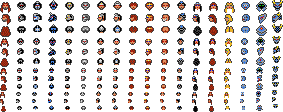
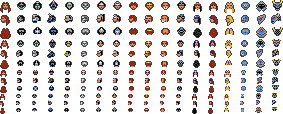
Fixed heads, distances

diff --git a/graphicsCharacters.js b/graphicsCharacters.js
@@ -41,14 +41,14 @@ function getCharacterSprite(length, graphicsFolder, graphic, spritWidth, spriteH
 		} else {
 			switch (graphic) {
 				case 'heads':
-                                        
-                                        var largeHeads = 1;
-                                        
-                                        if (x === 3 || x === 17){
-                                            largeHeads = 0;
-                                        }
-                                        
-					CLOSE.push(grabImageAt(gfx[graphicsFolder][graphic], x * colSize, POSITION + largeHeads, spritWidth, spriteHeight, false));
+
+					var largeHeads = 0;
+
+					if (x === 3 || x === 17) {
+						largeHeads = 0;
+					}
+
+					CLOSE.push(grabImageAt(gfx[graphicsFolder][graphic], x * colSize, POSITION + largeHeads, spritWidth, spriteHeight, false)); //11, 13
 					POSITION = POSITION + spriteHeight;
 
 					CLOSE.push(grabImageAt(gfx[graphicsFolder][graphic], x * colSize, POSITION + largeHeads, spritWidth, spriteHeight, false));
@@ -56,163 +56,169 @@ function getCharacterSprite(length, graphicsFolder, graphic, spritWidth, spriteH
 					POSITION = POSITION + spriteHeight;
 
 					CLOSE.push(grabImageAt(gfx[graphicsFolder][graphic], x * colSize, POSITION + largeHeads, spritWidth, spriteHeight, false));
-					POSITION = POSITION + spriteHeight + 2;
+					POSITION = POSITION + spriteHeight;
 
-					MID.push(grabImageAt(gfx[graphicsFolder][graphic], x * colSize, POSITION + largeHeads, spritWidth - 3, spriteHeight - 3, false));
-					POSITION = POSITION + spriteHeight - 2;
 
-					MID.push(grabImageAt(gfx[graphicsFolder][graphic], x * colSize, POSITION + largeHeads, spritWidth - 3, spriteHeight - 3, false));
-					MID.push(grabImageAt(gfx[graphicsFolder][graphic], x * colSize, POSITION + largeHeads, spritWidth - 3, spriteHeight - 3, true));
-					POSITION = POSITION + spriteHeight - 2;
 
-					MID.push(grabImageAt(gfx[graphicsFolder][graphic], x * colSize, POSITION + largeHeads, spritWidth - 3, spriteHeight - 3, false));
-					POSITION = POSITION + spriteHeight - 2;
+					MID.push(grabImageAt(gfx[graphicsFolder][graphic], x * colSize, POSITION + largeHeads, spritWidth - 2, spriteHeight - 3, false)); //9, 10
+					POSITION = POSITION + spriteHeight - 3;
 
-					FAR.push(grabImageAt(gfx[graphicsFolder][graphic], x * colSize, POSITION + largeHeads, spritWidth - 5, spriteHeight - 4, false));
-					POSITION = POSITION + spriteHeight - 4;
+					MID.push(grabImageAt(gfx[graphicsFolder][graphic], x * colSize, POSITION + largeHeads, spritWidth - 2, spriteHeight - 3, false));
+					MID.push(grabImageAt(gfx[graphicsFolder][graphic], x * colSize, POSITION + largeHeads, spritWidth - 2, spriteHeight - 3, true));
+					POSITION = POSITION + spriteHeight - 3;
 
-					FAR.push(grabImageAt(gfx[graphicsFolder][graphic], x * colSize, POSITION + largeHeads, spritWidth - 5, spriteHeight - 4, false));
-					FAR.push(grabImageAt(gfx[graphicsFolder][graphic], x * colSize, POSITION + largeHeads, spritWidth - 5, spriteHeight - 4, true));
-					POSITION = POSITION + spriteHeight - 4;
+					MID.push(grabImageAt(gfx[graphicsFolder][graphic], x * colSize, POSITION + largeHeads, spritWidth - 2, spriteHeight - 3, false));
+					POSITION = POSITION + spriteHeight - 3;
 
-					FAR.push(grabImageAt(gfx[graphicsFolder][graphic], x * colSize, POSITION + largeHeads, spritWidth - 5, spriteHeight - 4, false));
-					POSITION = POSITION + spriteHeight - 4;
 
-					DISTANT.push(grabImageAt(gfx[graphicsFolder][graphic], x * colSize, POSITION + largeHeads, spritWidth - 7, spriteHeight - 6, false));
+
+					FAR.push(grabImageAt(gfx[graphicsFolder][graphic], x * colSize, POSITION + largeHeads, spritWidth - 4, spriteHeight - 5, false)); //7, 8
 					POSITION = POSITION + spriteHeight - 5;
 
-					DISTANT.push(grabImageAt(gfx[graphicsFolder][graphic], x * colSize, POSITION + largeHeads, spritWidth - 8, spriteHeight - 6, false));
-					DISTANT.push(grabImageAt(gfx[graphicsFolder][graphic], x * colSize, POSITION + largeHeads, spritWidth - 8, spriteHeight - 6, true));
+					FAR.push(grabImageAt(gfx[graphicsFolder][graphic], x * colSize, POSITION + largeHeads, spritWidth - 4, spriteHeight - 5, false));
+					FAR.push(grabImageAt(gfx[graphicsFolder][graphic], x * colSize, POSITION + largeHeads, spritWidth - 4, spriteHeight - 5, true));
 					POSITION = POSITION + spriteHeight - 5;
 
-					DISTANT.push(grabImageAt(gfx[graphicsFolder][graphic], (x * colSize), POSITION + largeHeads, spritWidth - 5, spriteHeight - 6, false));
+					FAR.push(grabImageAt(gfx[graphicsFolder][graphic], x * colSize, POSITION + largeHeads, spritWidth - 4, spriteHeight - 5, false));
+					POSITION = POSITION + spriteHeight - 5;
+
+
+
+					DISTANT.push(grabImageAt(gfx[graphicsFolder][graphic], x * colSize, POSITION + largeHeads, spritWidth - 6, spriteHeight - 6, false)); //5, 7
+					POSITION = POSITION + spriteHeight - 6;
+
+					DISTANT.push(grabImageAt(gfx[graphicsFolder][graphic], x * colSize, POSITION + largeHeads, spritWidth - 6, spriteHeight - 6, false));
+					DISTANT.push(grabImageAt(gfx[graphicsFolder][graphic], x * colSize, POSITION + largeHeads, spritWidth - 6, spriteHeight - 6, true));
+					POSITION = POSITION + spriteHeight - 6;
+
+					DISTANT.push(grabImageAt(gfx[graphicsFolder][graphic], (x * colSize), POSITION + largeHeads, spritWidth - 6, spriteHeight - 6, false));
 
 					break;
 				case 'torsos':
-                                    
-                                        if (x === 5){                                           
-                                    
-                                            CLOSE.push(grabImageAt(gfx[graphicsFolder][graphic], x * colSize+2, POSITION+2, spritWidth-4, spriteHeight-2, false));
-                                            POSITION = POSITION + spriteHeight +2;
 
-                                            CLOSE.push(grabImageAt(gfx[graphicsFolder][graphic], x * colSize+2, POSITION, spritWidth - 7, spriteHeight -1 , false));
-                                            CLOSE.push(grabImageAt(gfx[graphicsFolder][graphic], x * colSize+2, POSITION, spritWidth - 7, spriteHeight -1 , true));
-                                            POSITION = POSITION + spriteHeight -1;
+					if (x === 5) {
 
-                                            CLOSE.push(grabImageAt(gfx[graphicsFolder][graphic], x * colSize+2, POSITION+1, spritWidth-4, spriteHeight-2, false));
-                                            POSITION = POSITION + spriteHeight+1;
+						CLOSE.push(grabImageAt(gfx[graphicsFolder][graphic], x * colSize + 2, POSITION + 2, spritWidth - 4, spriteHeight - 2, false));
+						POSITION = POSITION + spriteHeight + 2;
 
-                                            MID.push(grabImageAt(gfx[graphicsFolder][graphic], x * colSize+2, POSITION, spritWidth - 6, spriteHeight - 5, false));
-                                            POSITION = POSITION + spriteHeight - 2;
+						CLOSE.push(grabImageAt(gfx[graphicsFolder][graphic], x * colSize + 2, POSITION, spritWidth - 7, spriteHeight - 1, false));
+						CLOSE.push(grabImageAt(gfx[graphicsFolder][graphic], x * colSize + 2, POSITION, spritWidth - 7, spriteHeight - 1, true));
+						POSITION = POSITION + spriteHeight - 1;
 
-                                            MID.push(grabImageAt(gfx[graphicsFolder][graphic], x * colSize + 2, POSITION, spritWidth - 8, spriteHeight - 6, false));
-                                            MID.push(grabImageAt(gfx[graphicsFolder][graphic], x * colSize + 2, POSITION, spritWidth - 8, spriteHeight - 6, true));
-                                            POSITION = POSITION + spriteHeight - 2;
+						CLOSE.push(grabImageAt(gfx[graphicsFolder][graphic], x * colSize + 2, POSITION + 1, spritWidth - 4, spriteHeight - 2, false));
+						POSITION = POSITION + spriteHeight + 1;
 
-                                            MID.push(grabImageAt(gfx[graphicsFolder][graphic], x * colSize+2, POSITION, spritWidth - 6, spriteHeight - 5, false));
-                                            POSITION = POSITION + spriteHeight -3;
+						MID.push(grabImageAt(gfx[graphicsFolder][graphic], x * colSize + 2, POSITION, spritWidth - 6, spriteHeight - 5, false));
+						POSITION = POSITION + spriteHeight - 2;
 
-                                            FAR.push(grabImageAt(gfx[graphicsFolder][graphic], x * colSize+2, POSITION, spritWidth - 8, spriteHeight - 8, false));
-                                            POSITION = POSITION + spriteHeight - 4;
+						MID.push(grabImageAt(gfx[graphicsFolder][graphic], x * colSize + 2, POSITION, spritWidth - 8, spriteHeight - 6, false));
+						MID.push(grabImageAt(gfx[graphicsFolder][graphic], x * colSize + 2, POSITION, spritWidth - 8, spriteHeight - 6, true));
+						POSITION = POSITION + spriteHeight - 2;
 
-                                            FAR.push(grabImageAt(gfx[graphicsFolder][graphic], x * colSize + 2, POSITION, spritWidth - 9, spriteHeight - 6, false));
-                                            FAR.push(grabImageAt(gfx[graphicsFolder][graphic], x * colSize + 2, POSITION, spritWidth - 9, spriteHeight - 6, true));
-                                            POSITION = POSITION + spriteHeight - 2;
+						MID.push(grabImageAt(gfx[graphicsFolder][graphic], x * colSize + 2, POSITION, spritWidth - 6, spriteHeight - 5, false));
+						POSITION = POSITION + spriteHeight - 3;
 
-                                            FAR.push(grabImageAt(gfx[graphicsFolder][graphic], x * colSize+1, POSITION, spritWidth - 8, spriteHeight - 8, false));
-                                            POSITION = POSITION + spriteHeight - 4;
+						FAR.push(grabImageAt(gfx[graphicsFolder][graphic], x * colSize + 2, POSITION, spritWidth - 8, spriteHeight - 8, false));
+						POSITION = POSITION + spriteHeight - 4;
 
-                                            DISTANT.push(grabImageAt(gfx[graphicsFolder][graphic], x * colSize + 1, POSITION, spritWidth - 8, spriteHeight - 5, false));
-                                            POSITION = POSITION + spriteHeight - 5;
+						FAR.push(grabImageAt(gfx[graphicsFolder][graphic], x * colSize + 2, POSITION, spritWidth - 9, spriteHeight - 6, false));
+						FAR.push(grabImageAt(gfx[graphicsFolder][graphic], x * colSize + 2, POSITION, spritWidth - 9, spriteHeight - 6, true));
+						POSITION = POSITION + spriteHeight - 2;
 
-                                            DISTANT.push(grabImageAt(gfx[graphicsFolder][graphic], x * colSize, POSITION, spritWidth - 9, spriteHeight - 5, false));
-                                            DISTANT.push(grabImageAt(gfx[graphicsFolder][graphic], x * colSize, POSITION, spritWidth - 9, spriteHeight - 5, true));
-                                            POSITION = POSITION + spriteHeight - 5;
+						FAR.push(grabImageAt(gfx[graphicsFolder][graphic], x * colSize + 1, POSITION, spritWidth - 8, spriteHeight - 8, false));
+						POSITION = POSITION + spriteHeight - 4;
 
-                                            DISTANT.push(grabImageAt(gfx[graphicsFolder][graphic], x * colSize + 1, POSITION, spritWidth - 8, spriteHeight - 5, false));
-                                            
-                                        }else{                                            
-                                    
-                                            CLOSE.push(grabImageAt(gfx[graphicsFolder][graphic], x * colSize, POSITION, spritWidth, spriteHeight, false));
-                                            POSITION = POSITION + spriteHeight;
+						DISTANT.push(grabImageAt(gfx[graphicsFolder][graphic], x * colSize + 1, POSITION, spritWidth - 8, spriteHeight - 5, false));
+						POSITION = POSITION + spriteHeight - 5;
 
-                                            CLOSE.push(grabImageAt(gfx[graphicsFolder][graphic], x * colSize, POSITION, spritWidth - 3, spriteHeight, false));
-                                            CLOSE.push(grabImageAt(gfx[graphicsFolder][graphic], x * colSize, POSITION, spritWidth - 3, spriteHeight, true));
-                                            POSITION = POSITION + spriteHeight;
+						DISTANT.push(grabImageAt(gfx[graphicsFolder][graphic], x * colSize, POSITION, spritWidth - 9, spriteHeight - 5, false));
+						DISTANT.push(grabImageAt(gfx[graphicsFolder][graphic], x * colSize, POSITION, spritWidth - 9, spriteHeight - 5, true));
+						POSITION = POSITION + spriteHeight - 5;
 
-                                            CLOSE.push(grabImageAt(gfx[graphicsFolder][graphic], x * colSize, POSITION, spritWidth, spriteHeight, false));
-                                            POSITION = POSITION + spriteHeight;
+						DISTANT.push(grabImageAt(gfx[graphicsFolder][graphic], x * colSize + 1, POSITION, spritWidth - 8, spriteHeight - 5, false));
 
-                                            MID.push(grabImageAt(gfx[graphicsFolder][graphic], x * colSize, POSITION, spritWidth - 2, spriteHeight - 2, false));
-                                            POSITION = POSITION + spriteHeight - 2;
+					} else {
 
-                                            MID.push(grabImageAt(gfx[graphicsFolder][graphic], x * colSize + 1, POSITION, spritWidth - 7, spriteHeight - 2, false));
-                                            MID.push(grabImageAt(gfx[graphicsFolder][graphic], x * colSize + 1, POSITION, spritWidth - 7, spriteHeight - 2, true));
-                                            POSITION = POSITION + spriteHeight - 2;
+						CLOSE.push(grabImageAt(gfx[graphicsFolder][graphic], x * colSize, POSITION, spritWidth, spriteHeight, false));
+						POSITION = POSITION + spriteHeight;
 
-                                            MID.push(grabImageAt(gfx[graphicsFolder][graphic], x * colSize, POSITION, spritWidth - 2, spriteHeight - 2, false));
-                                            POSITION = POSITION + spriteHeight - 2;
+						CLOSE.push(grabImageAt(gfx[graphicsFolder][graphic], x * colSize, POSITION, spritWidth - 3, spriteHeight, false));
+						CLOSE.push(grabImageAt(gfx[graphicsFolder][graphic], x * colSize, POSITION, spritWidth - 3, spriteHeight, true));
+						POSITION = POSITION + spriteHeight;
 
-                                            FAR.push(grabImageAt(gfx[graphicsFolder][graphic], x * colSize, POSITION, spritWidth - 6, spriteHeight - 4, false));
-                                            POSITION = POSITION + spriteHeight - 4;
+						CLOSE.push(grabImageAt(gfx[graphicsFolder][graphic], x * colSize, POSITION, spritWidth, spriteHeight, false));
+						POSITION = POSITION + spriteHeight;
 
-                                            FAR.push(grabImageAt(gfx[graphicsFolder][graphic], x * colSize + 1, POSITION, spritWidth - 8, spriteHeight - 4, false));
-                                            FAR.push(grabImageAt(gfx[graphicsFolder][graphic], x * colSize + 1, POSITION, spritWidth - 8, spriteHeight - 4, true));
-                                            POSITION = POSITION + spriteHeight - 4;
+						MID.push(grabImageAt(gfx[graphicsFolder][graphic], x * colSize, POSITION, spritWidth - 2, spriteHeight - 2, false));
+						POSITION = POSITION + spriteHeight - 2;
 
-                                            FAR.push(grabImageAt(gfx[graphicsFolder][graphic], x * colSize, POSITION, spritWidth - 6, spriteHeight - 4, false));
-                                            POSITION = POSITION + spriteHeight - 4;
+						MID.push(grabImageAt(gfx[graphicsFolder][graphic], x * colSize + 1, POSITION, spritWidth - 7, spriteHeight - 2, false));
+						MID.push(grabImageAt(gfx[graphicsFolder][graphic], x * colSize + 1, POSITION, spritWidth - 7, spriteHeight - 2, true));
+						POSITION = POSITION + spriteHeight - 2;
 
-                                            DISTANT.push(grabImageAt(gfx[graphicsFolder][graphic], x * colSize + 1, POSITION, spritWidth - 8, spriteHeight - 5, false));
-                                            POSITION = POSITION + spriteHeight - 5;
+						MID.push(grabImageAt(gfx[graphicsFolder][graphic], x * colSize, POSITION, spritWidth - 2, spriteHeight - 2, false));
+						POSITION = POSITION + spriteHeight - 2;
 
-                                            DISTANT.push(grabImageAt(gfx[graphicsFolder][graphic], x * colSize, POSITION, spritWidth - 9, spriteHeight - 5, false));
-                                            DISTANT.push(grabImageAt(gfx[graphicsFolder][graphic], x * colSize, POSITION, spritWidth - 9, spriteHeight - 5, true));
-                                            POSITION = POSITION + spriteHeight - 5;
+						FAR.push(grabImageAt(gfx[graphicsFolder][graphic], x * colSize, POSITION, spritWidth - 6, spriteHeight - 4, false));
+						POSITION = POSITION + spriteHeight - 4;
 
-                                            DISTANT.push(grabImageAt(gfx[graphicsFolder][graphic], x * colSize + 1, POSITION, spritWidth - 8, spriteHeight - 5, false));
+						FAR.push(grabImageAt(gfx[graphicsFolder][graphic], x * colSize + 1, POSITION, spritWidth - 8, spriteHeight - 4, false));
+						FAR.push(grabImageAt(gfx[graphicsFolder][graphic], x * colSize + 1, POSITION, spritWidth - 8, spriteHeight - 4, true));
+						POSITION = POSITION + spriteHeight - 4;
 
-                                        }
+						FAR.push(grabImageAt(gfx[graphicsFolder][graphic], x * colSize, POSITION, spritWidth - 6, spriteHeight - 4, false));
+						POSITION = POSITION + spriteHeight - 4;
+
+						DISTANT.push(grabImageAt(gfx[graphicsFolder][graphic], x * colSize + 1, POSITION, spritWidth - 8, spriteHeight - 5, false));
+						POSITION = POSITION + spriteHeight - 5;
+
+						DISTANT.push(grabImageAt(gfx[graphicsFolder][graphic], x * colSize, POSITION, spritWidth - 9, spriteHeight - 5, false));
+						DISTANT.push(grabImageAt(gfx[graphicsFolder][graphic], x * colSize, POSITION, spritWidth - 9, spriteHeight - 5, true));
+						POSITION = POSITION + spriteHeight - 5;
+
+						DISTANT.push(grabImageAt(gfx[graphicsFolder][graphic], x * colSize + 1, POSITION, spritWidth - 8, spriteHeight - 5, false));
+
+					}
 					break;
 				case 'arms':
-					CLOSE.push(grabImageAt(gfx[graphicsFolder][graphic], x * colSize, POSITION, spritWidth -4, spriteHeight, false));
+					CLOSE.push(grabImageAt(gfx[graphicsFolder][graphic], x * colSize, POSITION, spritWidth - 4, spriteHeight, false));
 					POSITION = POSITION + spriteHeight;
 
-					CLOSE.push(grabImageAt(gfx[graphicsFolder][graphic], x * colSize , POSITION, spritWidth-1, spriteHeight, false));
-					CLOSE.push(grabImageAt(gfx[graphicsFolder][graphic], x * colSize , POSITION, spritWidth-1, spriteHeight, true));
+					CLOSE.push(grabImageAt(gfx[graphicsFolder][graphic], x * colSize, POSITION, spritWidth - 1, spriteHeight, false));
+					CLOSE.push(grabImageAt(gfx[graphicsFolder][graphic], x * colSize, POSITION, spritWidth - 1, spriteHeight, true));
 					POSITION = POSITION + spriteHeight;
 
-					CLOSE.push(grabImageAt(gfx[graphicsFolder][graphic], x * colSize+1, POSITION, spritWidth-1, spriteHeight - 4, false));
+					CLOSE.push(grabImageAt(gfx[graphicsFolder][graphic], x * colSize + 1, POSITION, spritWidth - 1, spriteHeight - 4, false));
 					POSITION = POSITION + spriteHeight + 2;
 
-					MID.push(grabImageAt(gfx[graphicsFolder][graphic], x * colSize, POSITION - 1, spritWidth -5, spriteHeight - 4, false));
+					MID.push(grabImageAt(gfx[graphicsFolder][graphic], x * colSize, POSITION - 1, spritWidth - 5, spriteHeight - 4, false));
 					POSITION = POSITION + spriteHeight - 1;
 
-					MID.push(grabImageAt(gfx[graphicsFolder][graphic], x * colSize, POSITION - 1, spritWidth -2, spriteHeight -3, false));
-					MID.push(grabImageAt(gfx[graphicsFolder][graphic], x * colSize, POSITION - 1, spritWidth -2, spriteHeight -3, true));
-					POSITION = POSITION + spriteHeight ;
+					MID.push(grabImageAt(gfx[graphicsFolder][graphic], x * colSize, POSITION - 1, spritWidth - 2, spriteHeight - 3, false));
+					MID.push(grabImageAt(gfx[graphicsFolder][graphic], x * colSize, POSITION - 1, spritWidth - 2, spriteHeight - 3, true));
+					POSITION = POSITION + spriteHeight;
 
-					MID.push(grabImageAt(gfx[graphicsFolder][graphic], x * colSize, POSITION - 1, spritWidth -2, spriteHeight - 6, false));
+					MID.push(grabImageAt(gfx[graphicsFolder][graphic], x * colSize, POSITION - 1, spritWidth - 2, spriteHeight - 6, false));
 					POSITION = POSITION + spriteHeight - 7;
 
-					FAR.push(grabImageAt(gfx[graphicsFolder][graphic], x * colSize, POSITION, spritWidth -5 , spriteHeight - 6, false));
+					FAR.push(grabImageAt(gfx[graphicsFolder][graphic], x * colSize, POSITION, spritWidth - 5, spriteHeight - 6, false));
 					POSITION = POSITION + spriteHeight - 4;
 
-					FAR.push(grabImageAt(gfx[graphicsFolder][graphic], x * colSize , POSITION, spritWidth-3 , spriteHeight - 6, false));
-					FAR.push(grabImageAt(gfx[graphicsFolder][graphic], x * colSize , POSITION, spritWidth-3 , spriteHeight - 6, true));
+					FAR.push(grabImageAt(gfx[graphicsFolder][graphic], x * colSize, POSITION, spritWidth - 3, spriteHeight - 6, false));
+					FAR.push(grabImageAt(gfx[graphicsFolder][graphic], x * colSize, POSITION, spritWidth - 3, spriteHeight - 6, true));
 					POSITION = POSITION + spriteHeight - 4;
 
-					FAR.push(grabImageAt(gfx[graphicsFolder][graphic], x * colSize, POSITION, spritWidth-3 , spriteHeight - 9, false));
+					FAR.push(grabImageAt(gfx[graphicsFolder][graphic], x * colSize, POSITION, spritWidth - 3, spriteHeight - 9, false));
 					POSITION = POSITION + spriteHeight + 1;
 
-					DISTANT.push(grabImageAt(gfx[graphicsFolder][graphic], x * colSize, POSITION, spritWidth-5 , spriteHeight - 8, false));
+					DISTANT.push(grabImageAt(gfx[graphicsFolder][graphic], x * colSize, POSITION, spritWidth - 5, spriteHeight - 8, false));
 					POSITION = POSITION + spriteHeight - 8;
 
-					DISTANT.push(grabImageAt(gfx[graphicsFolder][graphic], x * colSize, POSITION, spritWidth-4 , spriteHeight - 8, false));
-					DISTANT.push(grabImageAt(gfx[graphicsFolder][graphic], x * colSize, POSITION, spritWidth-4 , spriteHeight - 8, true));
+					DISTANT.push(grabImageAt(gfx[graphicsFolder][graphic], x * colSize, POSITION, spritWidth - 4, spriteHeight - 8, false));
+					DISTANT.push(grabImageAt(gfx[graphicsFolder][graphic], x * colSize, POSITION, spritWidth - 4, spriteHeight - 8, true));
 					POSITION = POSITION + spriteHeight - 8;
 
-					DISTANT.push(grabImageAt(gfx[graphicsFolder][graphic], (x * colSize), POSITION, spritWidth-4 , spriteHeight, false));
+					DISTANT.push(grabImageAt(gfx[graphicsFolder][graphic], (x * colSize), POSITION, spritWidth - 4, spriteHeight, false));
 
 					break;
 				case 'legs':
@@ -254,7 +260,7 @@ function getCharacterSprite(length, graphicsFolder, graphic, spritWidth, spriteH
 					POSITION = POSITION + spriteHeight - 11;
 
 					DISTANT.push(grabImageAt(gfx[graphicsFolder][graphic], (x * colSize) + 1, POSITION, spritWidth - 6, spriteHeight - 11, false));
-					
+
 					break;
 				default:
 					break;
@@ -266,12 +272,27 @@ function getCharacterSprite(length, graphicsFolder, graphic, spritWidth, spriteH
 	}
 	//characterGfx.push(graphicArray);
 
-	switch(graphic) {
-		case 'minis': gameGfxLoaded.monsterMinis = true; characterGfx[4] = graphicArray; break;
-		case 'heads': gameGfxLoaded.monsterHeads = true; characterGfx[0] = graphicArray; break;
-		case 'torsos': gameGfxLoaded.monsterTorsos = true; characterGfx[1] = graphicArray; break;
-		case 'arms': gameGfxLoaded.monsterArms = true; characterGfx[3] = graphicArray; break;
-		case 'legs': gameGfxLoaded.monsterLegs = true; characterGfx[2] = graphicArray; break;
+	switch (graphic) {
+		case 'minis':
+			gameGfxLoaded.monsterMinis = true;
+			characterGfx[4] = graphicArray;
+			break;
+		case 'heads':
+			gameGfxLoaded.monsterHeads = true;
+			characterGfx[0] = graphicArray;
+			break;
+		case 'torsos':
+			gameGfxLoaded.monsterTorsos = true;
+			characterGfx[1] = graphicArray;
+			break;
+		case 'arms':
+			gameGfxLoaded.monsterArms = true;
+			characterGfx[3] = graphicArray;
+			break;
+		case 'legs':
+			gameGfxLoaded.monsterLegs = true;
+			characterGfx[2] = graphicArray;
+			break;
 	}
 }
 
@@ -334,7 +355,7 @@ function grabCharacter(cID, dir, dist) {
 		};
 		var headCoord = {
 			x: Math.round((width - HEAD.width) / 2),
-			y: height - LEG.height - TORSO.height - HEAD.height + 4
+			y: height - LEG.height - TORSO.height - Math.round(HEAD.height * 0.57)
 		};
 		var armLeftCoord = {
 			x: Math.round((width - TORSO.width) / 2) - ARM.width,

diff --git a/Map.js b/Map.js
@@ -46,7 +46,7 @@ function init() {
 
 	if (gfx['character']['torsos'].width > 0 && gfx['character']['arms'].width > 0 && gfx['character']['heads'].width > 0 && gfx['character']['legs'].width > 0 && gfx['character']['minis'].width > 0 && championData.length > 0) {
 		clearInterval(imageChecker);
-		gfx['character']['heads'].onload = getCharacterSprite(NUMBER_OF_HEADS, 'character', 'heads', 12, 12, 16);
+		gfx['character']['heads'].onload = getCharacterSprite(NUMBER_OF_HEADS, 'character', 'heads', 11, 13, 16);
 		gfx['character']['legs'].onload = getCharacterSprite(NUMBER_OF_LEGS, 'character', 'legs', 15, 26, 16);
 		gfx['character']['arms'].onload = getCharacterSprite(NUMBER_OF_ARMS, 'character', 'arms', 9, 18, 16);
 		gfx['character']['minis'].onload = getCharacterSprite(NUMBER_OF_MINIS, 'character', 'minis', 13, 22, 16);

diff --git a/monsters.js b/monsters.js
@@ -472,7 +472,7 @@ function getMonsterGfxOffset(pos, sub) {
 	var offy = -xy["y"] * 4 + suby;
 
 	var x = Math.round(offx * (190.0 / (offy + 6)));
-	var y = Math.round(35 - 120.0 / (offy + 2));
+	var y = Math.round(49 - 340.0 / (offy + 6));
 
 	return {
 		x: x,
